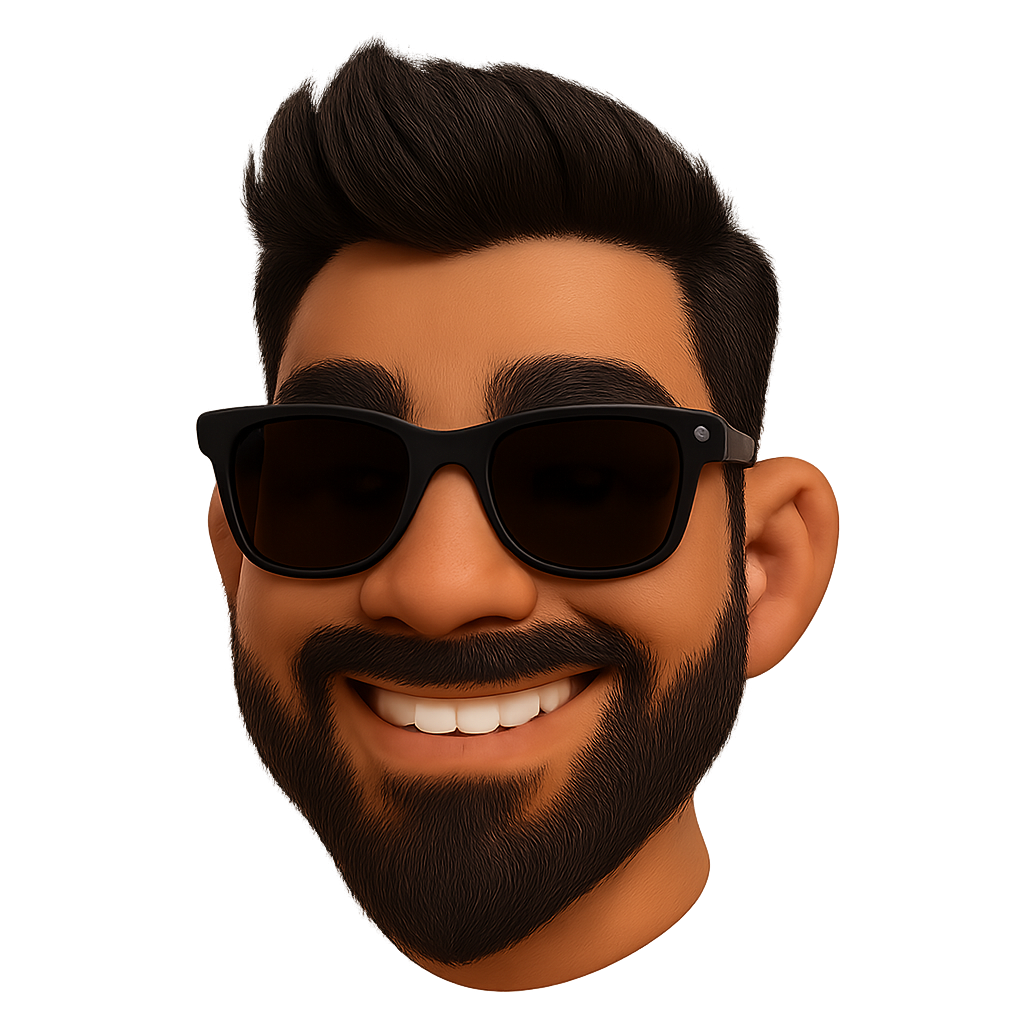
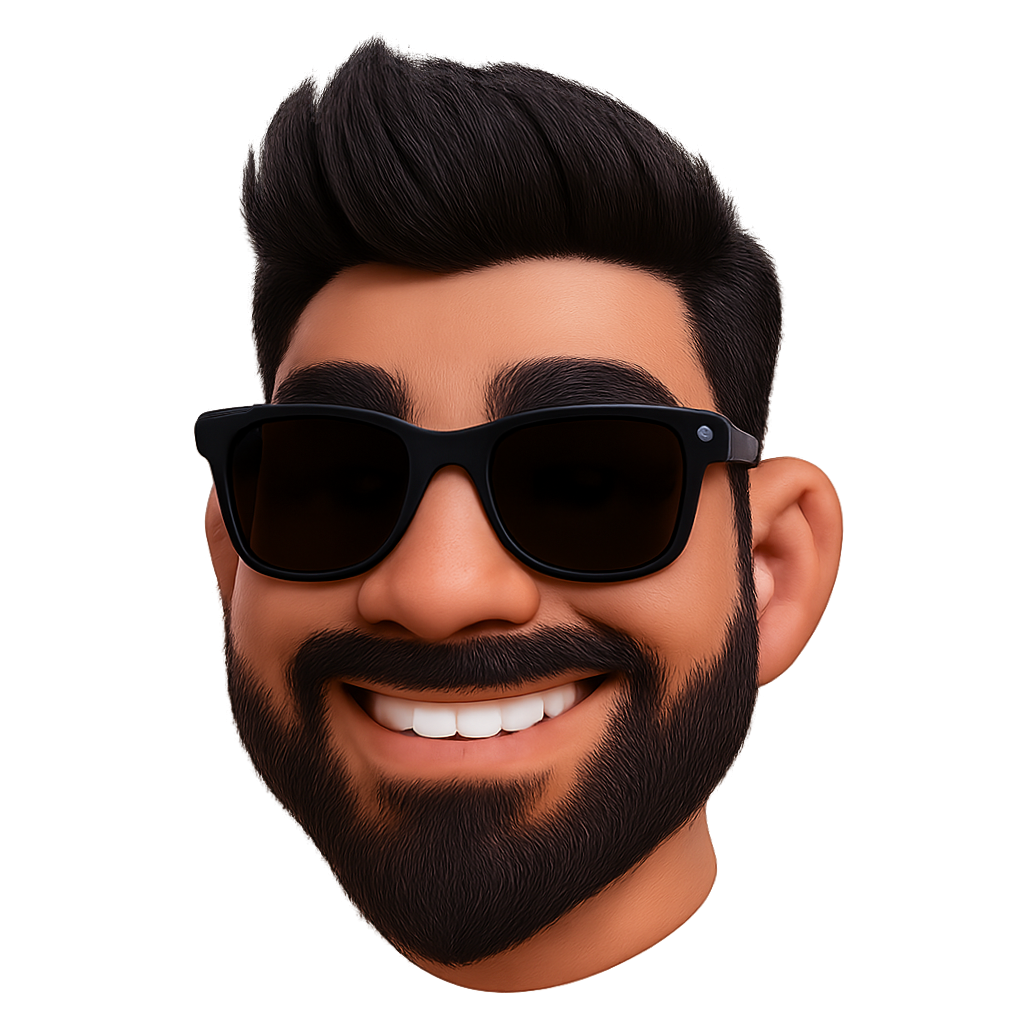
added animations

Changed region(s): [[0.1875, 0.0312, 0.8438, 0.9688]]

diff --git a/src/components/NavBar.jsx b/src/components/NavBar.jsx
@@ -1,6 +1,6 @@
 "use client"
 import { useEffect, useState } from "react"
-import { Menu, X } from "lucide-react"
+import { Menu, X, Sun, Moon } from "lucide-react"
 
 export default function NavBar({ theme, onToggleTheme }) {
   const links = [
@@ -28,21 +28,21 @@ export default function NavBar({ theme, onToggleTheme }) {
 
   return (
     <header className="fixed inset-x-0 top-0 z-[100]">
-      <div className="mx-auto max-w-6xl mt-4">
-        <div className="flex items-center justify-between rounded-2xl border border-[var(--border)] nav-surface px-3 py-2 shadow-[0_4px_20px_rgba(0,0,0,0.25)]">
+      <div className="mx-auto w-full max-w-7xl px-2 md:px-3 mt-3 md:mt-4">
+        <div className="flex items-center justify-between rounded-2xl border border-[var(--border)] nav-surface px-2 md:px-3 py-2 shadow-[0_4px_20px_rgba(0,0,0,0.25)] overflow-hidden">
           <a href="#hero" className="text-sm font-medium tracking-wide">Top</a>
 
           {/* Desktop nav */}
-          <nav className="hidden md:flex items-center gap-1">
+          <nav className="hidden md:flex items-center gap-1 lg:gap-2">
             {links.map(l => (
-              <a key={l.id} href={l.href} className="nav-link">{l.label}</a>
+              <a key={l.id} href={l.href} className="nav-link text-[15px] lg:text-sm">{l.label}</a>
             ))}
           </nav>
 
           <div className="flex items-center gap-2">
             {/* Mobile hamburger */}
             <button
-              className="md:hidden btn-toggle"
+              className="md:hidden btn-toggle w-9 h-9 grid place-items-center"
               onClick={toggle}
               aria-expanded={open}
               aria-controls="mobileMenu"
@@ -50,8 +50,19 @@ export default function NavBar({ theme, onToggleTheme }) {
             >
               {open ? <X className="h-4 w-4" /> : <Menu className="h-4 w-4" />}
             </button>
-            <button className="btn-toggle" onClick={onToggleTheme} aria-label="Toggle theme">
-              {mounted ? (theme === "dark" ? "Light" : "Dark") : "Theme"}
+
+            {/* Theme icon toggle */}
+            <button
+              className="btn-toggle w-9 h-9 grid place-items-center"
+              onClick={onToggleTheme}
+              aria-label={mounted ? (theme === 'dark' ? 'Switch to light mode' : 'Switch to dark mode') : 'Toggle theme'}
+              title={mounted ? (theme === 'dark' ? 'Light' : 'Dark') : 'Theme'}
+            >
+              {mounted ? (
+                theme === "dark" ? <Sun className="h-4 w-4" /> : <Moon className="h-4 w-4" />
+              ) : (
+                <Sun className="h-4 w-4" />
+              )}
             </button>
           </div>
         </div>

diff --git a/src/components/HeroMobile.jsx b/src/components/HeroMobile.jsx
@@ -6,23 +6,22 @@ import GreetingHero from './GreetingHero'
 export default function HeroMobile({ imgSrc = "/naman-avatar.png", imgAlt = "Profile" }) {
   return (
     <div className="flex flex-col items-center">
-      {/* Text first, compact layout, no big min-height */}
+      {/* Text first, compact layout */}
       <div className="w-full text-center">
         <GreetingHero compact />
       </div>
-      {/* Image fills width, fully visible under the text */}
-      <div className="mt-4 w-full grid place-items-center">
-        <div className="relative w-[86vw] h-[86vw] max-w-[720px] max-h-[520px]">
-          <Image
-            src={imgSrc}
-            alt={imgAlt}
-            fill
-            sizes="86vw"
-            priority
-            style={{ objectFit: 'contain' }}
-            className="drop-shadow-[0_20px_60px_rgba(0,0,0,0.35)]"
-          />
-        </div>
+
+      {/* Intrinsic image sizing so it never collapses, plus extra space below */}
+      <div className="mt-10 mb-16 w-full flex justify-center">
+        <Image
+          src={imgSrc}
+          alt={imgAlt}
+          width={640}
+          height={640}
+          priority
+          className="w-[96vw] max-w-[640px] h-auto drop-shadow-[0_20px_60px_rgba(0,0,0,0.35)]"
+          style={{ objectFit: 'contain' }}
+        />
       </div>
     </div>
   )

diff --git a/src/app/page.js b/src/app/page.js
@@ -144,7 +144,8 @@ I thrive on complex, high stakes problems. They force me to think sharper, act f
 
       <main id="top" className="h-dvh snap-y snap-mandatory overflow-y-scroll overscroll-contain bg-[var(--bg)] text-[var(--fg)]">
         {/* HERO */}
-        <section id="hero" className="snap-start h-auto md:h-dvh relative px-4 md:px-6 pt-14 pb-2 md:pt-16 md:pb-0 grid items-start md:items-center">
+        <section id="hero" className="snap-start min-h-[100svh] md:h-dvh relative px-4 md:px-6 pt-14 pb-2 md:pt-16 md:pb-0 grid items-start md:items-center">
+
           <div className="mx-auto w-full max-w-6xl">
             <HeroSplit imgSrc="/naman-avatar.png" imgAlt="Naman avatar" />
           </div>
